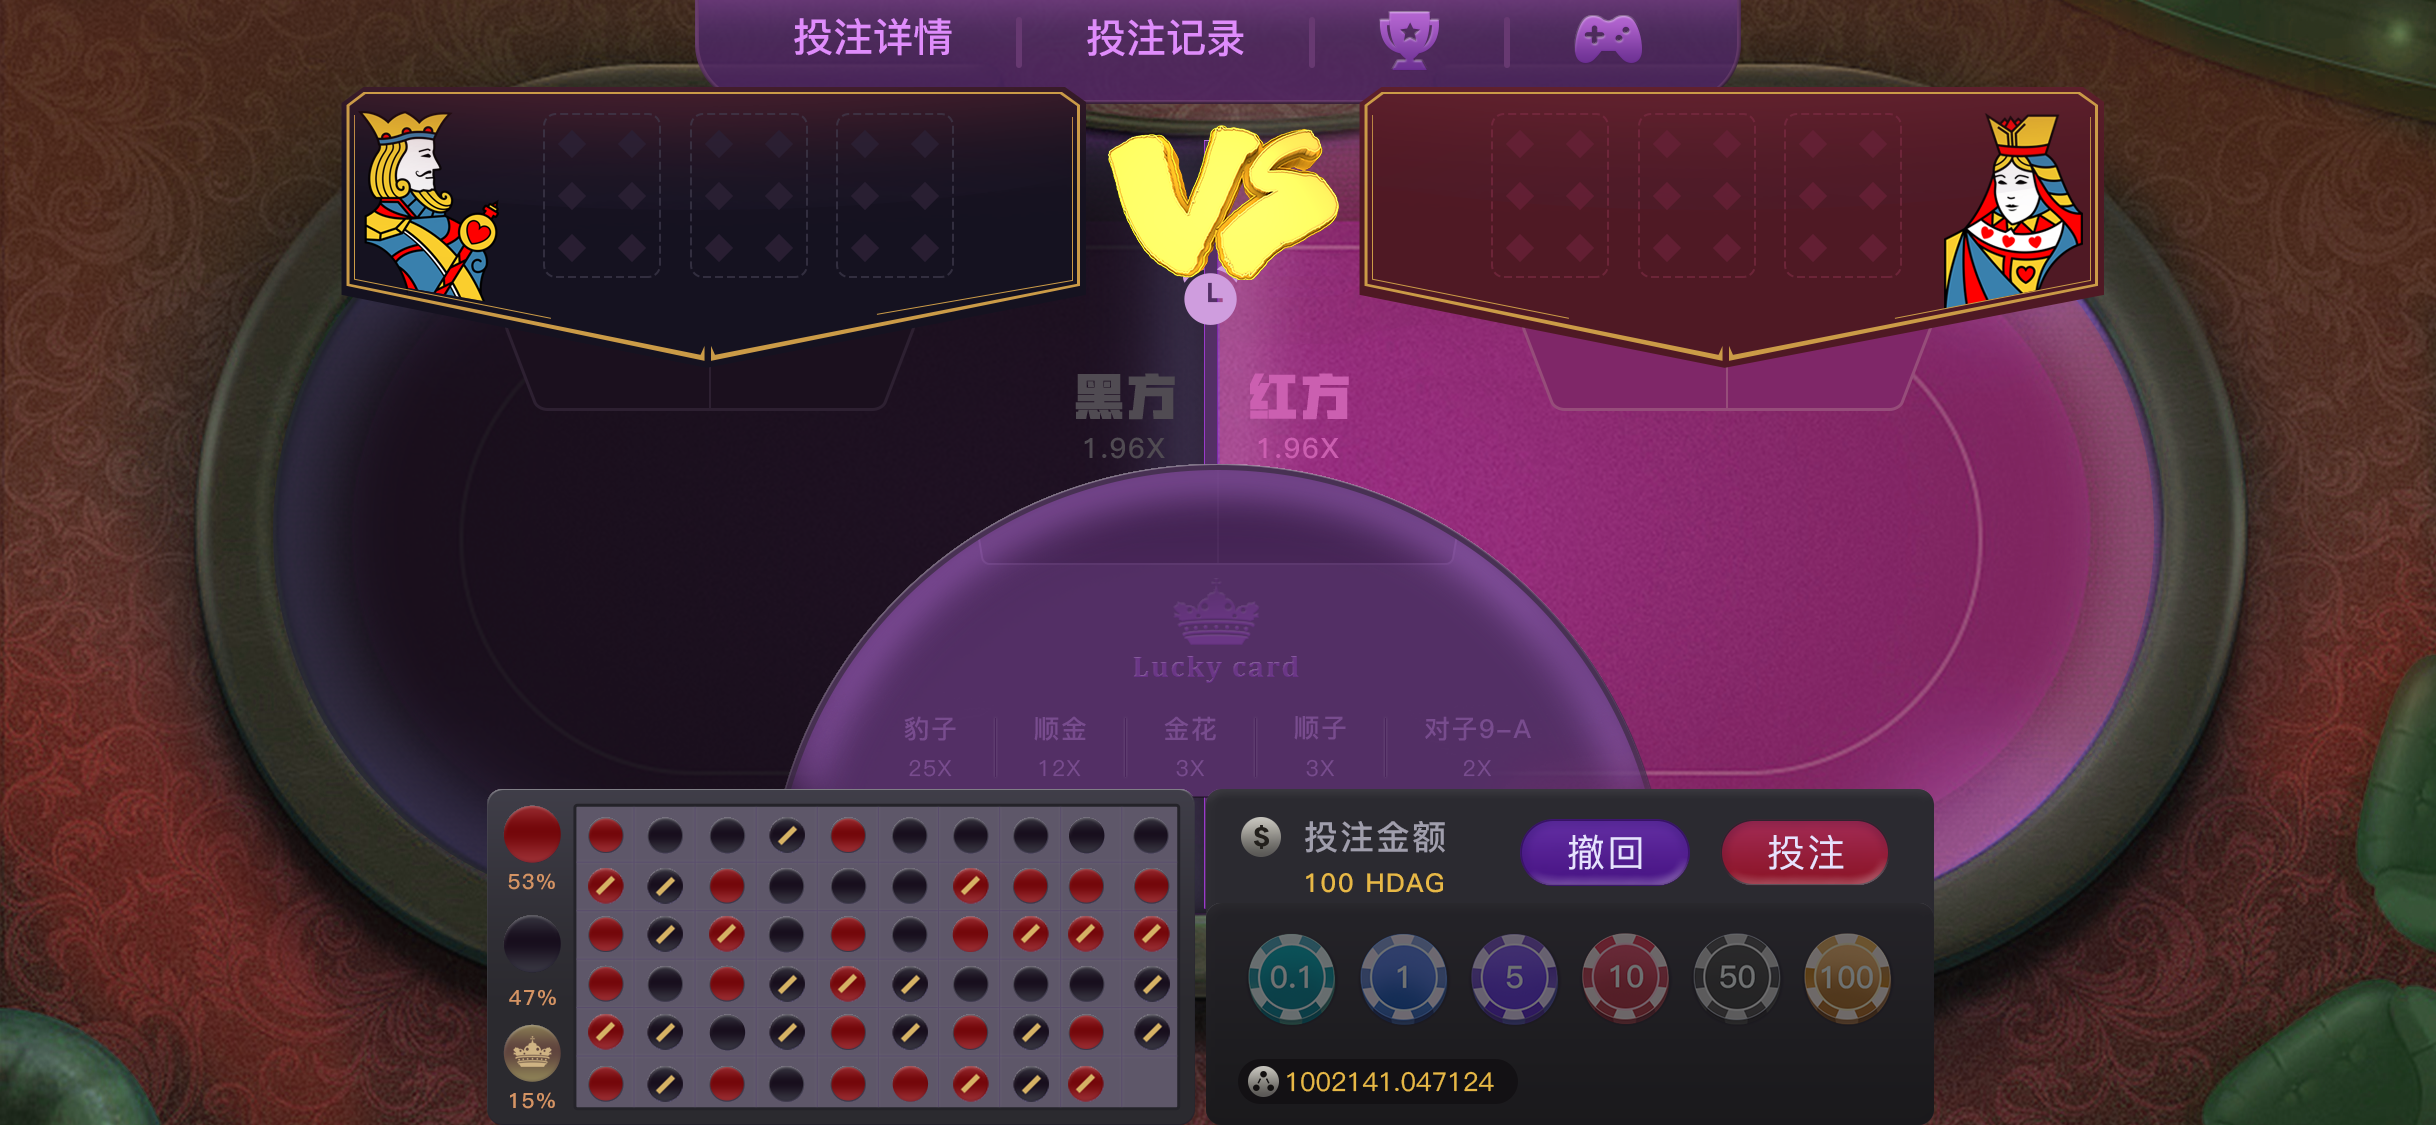
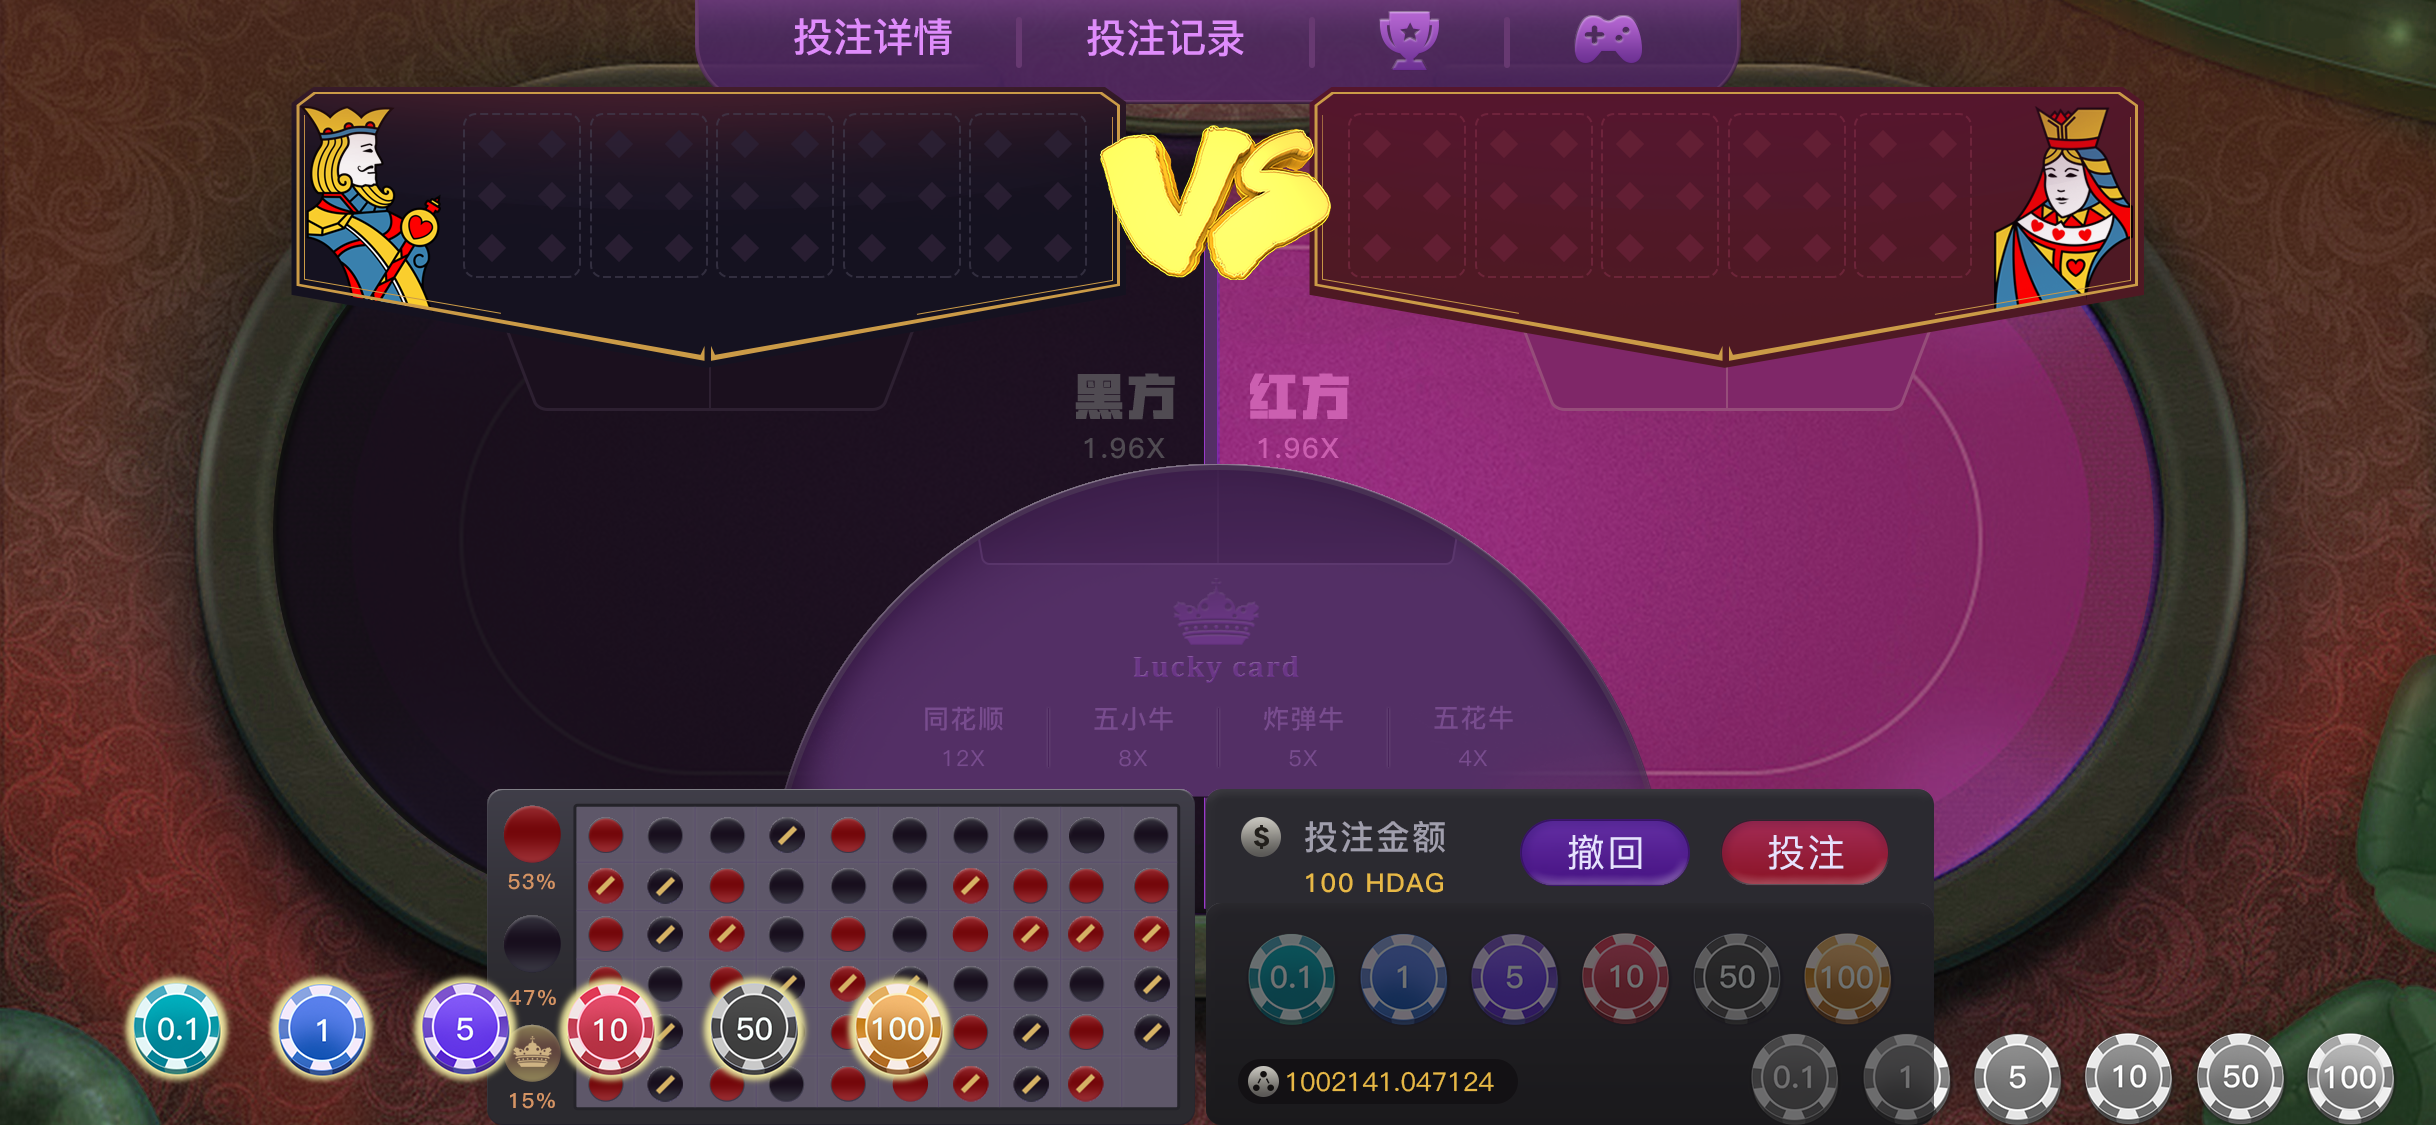
更改发牌动画

diff --git a/EgerPro/bin-debug/core/view/mainYDD/MainUIYDD.js b/EgerPro/bin-debug/core/view/mainYDD/MainUIYDD.js
@@ -18,14 +18,13 @@ var game;
         function MainUIYDD() {
             var _this = _super.call(this) || this;
             _this.skinName = "resource/ui/mainYDD/MainUIYDDSkin.exml";
-            _this._cards = [_this.card1, _this.card2, _this.card3, _this.card4, _this.card5, _this.card6];
-            _this._cardStarXs = [];
-            _this._cardStarXs[0] = _this.card1.x;
-            _this._cardStarXs[1] = _this.card2.x;
-            _this._cardStarXs[2] = _this.card3.x;
-            _this._cardStarXs[3] = _this.card4.x;
-            _this._cardStarXs[4] = _this.card5.x;
-            _this._cardStarXs[5] = _this.card6.x;
+            _this._cards = []; //[this.card1, this.card2, this.card3, this.card4, this.card5, this.card6, this.card7, this.card8, this.card9, this.card10];
+            _this._cardStarXs = []; //[this.card1.x, this.card2.x,this.card3.x,this.card4.x,this.card5.x,this.card6.x,this.card7.x,this.card8.x,this.card9.x,this.card10.x,];
+            for (var i = 0; i < 10; i++) {
+                var key = "card" + (i + 1);
+                _this._cards[i] = _this[key];
+                _this._cardStarXs[i] = _this[key].x;
+            }
             _this._vsManBlackX = _this.vsManBlack_img.x;
             _this._vsManRedX = _this.vsManRed_img.x;
             _this._selectIndex = -1;
@@ -178,7 +177,7 @@ var game;
          * 设置卡牌数据
          */
         MainUIYDD.prototype.setCardData = function () {
-            for (var i = 0; i < 6; i++) {
+            for (var i = 0; i < 10; i++) {
                 this._cards[i].setCard(i);
             }
             this.blackResult_img.source = EnumerationType.CardType[AllData.instance.CardTypeB] + "_png";
@@ -192,7 +191,12 @@ var game;
             if (this._cac == null) {
                 this._cac = new ContinueAmiChain(50);
                 var len = this._cards.length;
-                var cardCenterXs = [521, 557, 596, 218, 254, 290];
+                var cardCenterXs = [];
+                for (var i = 0; i < 5; i++) {
+                    var dz = i * 37;
+                    cardCenterXs[i + 5] = 176 + dz;
+                    cardCenterXs[i] = 485 + dz;
+                }
                 var cardCenterY = 59;
                 var cardCenterS = 1.65;
                 //设置发牌起始位置
@@ -206,9 +210,9 @@ var game;
                     var needTime = 8;
                     this._cac.registerAction(this.playMoveAmi, this, starTime, needTime, value);
                 }
-                //翻前两张牌
-                this._cac.registerAction(this.playOpenCardAmi, this, 10, 16);
-                //增加哈希列表动画
+                //翻前四张牌
+                this._cac.registerAction(this.playOpenCardAmi, this, 10, 18);
+                //动画：增加哈希列表
                 this.playHXItemAmi();
                 //飘字动画
                 this._cac.registerAction(this.playMoveLabAmi, this, 0, 20);
@@ -223,12 +227,12 @@ var game;
                     var starTime = i == 0 ? 0 : -needTime;
                     this._cac.registerAction(this.playMoveAmi, this, starTime, needTime, value);
                 }
-                //翻黑牌第三张
-                this._cac.registerAction(this._cards[2].showOpenCardAmi, this._cards[2], 0, 18, true);
+                //翻黑牌第五张
+                this._cac.registerAction(this._cards[4].showOpenCardAmi, this._cards[4], 0, 18, true);
                 //显示黑牌牌型
                 this._cac.registerAction(this.playCardResultAmiL, this, 0, 4);
-                //翻红牌第三张牌
-                this._cac.registerAction(this._cards[5].showOpenCardAmi, this._cards[5], 0, 18, true);
+                //翻红牌第五张牌
+                this._cac.registerAction(this._cards[9].showOpenCardAmi, this._cards[9], 0, 18, true);
                 //显示红牌牌型
                 this._cac.registerAction(this.playCardResultAmiR, this, 0, 4);
                 //显示胜利区域
@@ -312,17 +316,25 @@ var game;
         };
         MainUIYDD.prototype.playOpenCardAmi = function () {
             var cards = this._cards;
-            this.playOpenTwoCardAmi(cards[0], cards[1], cards[2]);
-            this.playOpenTwoCardAmi(cards[3], cards[4], cards[5]);
+            this.playOpenTwoCardAmi(cards[0], cards[1], cards[2], cards[3], cards[4]);
+            this.playOpenTwoCardAmi(cards[5], cards[6], cards[7], cards[8], cards[9]);
         };
-        MainUIYDD.prototype.playOpenTwoCardAmi = function (card1, card2, card3) {
+        MainUIYDD.prototype.playOpenTwoCardAmi = function (card1, card2, card3, card4, card5) {
             var starX1 = card1.x;
+            var starX2 = card2.x;
             var starX3 = card3.x;
-            egret.Tween.get(card1).to({ x: card2.x }, 400)
-                .call(function () { card1.openSelf(); card2.openSelf(); })
-                .to({ x: starX1 }, 400);
-            egret.Tween.get(card3).to({ x: card2.x }, 400)
-                .to({ x: starX3 }, 400);
+            var starX4 = card4.x;
+            var starX5 = card5.x;
+            var sX = card1.scaleX;
+            egret.Tween.get(card1).to({ x: card3.x }, 450)
+                .call(function () { card1.openSelf(); card3.openSelf(); card2.openSelf(); card4.openSelf(); })
+                .to({ x: starX1 }, 450);
+            egret.Tween.get(card2).to({ x: card3.x }, 450)
+                .to({ x: starX2 }, 450);
+            egret.Tween.get(card4).to({ x: card3.x }, 450)
+                .to({ x: starX4 }, 450);
+            egret.Tween.get(card5).to({ x: card3.x }, 450)
+                .to({ x: starX5 }, 450);
         };
         /**
          * 播放移动动画

diff --git a/EgerPro/src/core/view/mainYDD/MainUIYDD.ts b/EgerPro/src/core/view/mainYDD/MainUIYDD.ts
@@ -12,6 +12,10 @@ module game
 		public card4: Card;
 		public card5: Card;
 		public card6: Card;
+		public card7: Card;
+		public card8: Card;
+		public card9: Card;
+		public card10: Card;
 		public ball5_btn: BallBtn;
 		public ball4_btn: BallBtn;
 		public ball3_btn: BallBtn;
@@ -68,14 +72,14 @@ module game
 		{
 			super();
 			this.skinName = "resource/ui/mainYDD/MainUIYDDSkin.exml";
-			this._cards = [this.card1, this.card2, this.card3, this.card4, this.card5, this.card6];
-			this._cardStarXs = [];
-			this._cardStarXs[0] = this.card1.x;
-			this._cardStarXs[1] = this.card2.x;
-			this._cardStarXs[2] = this.card3.x;
-			this._cardStarXs[3] = this.card4.x;
-			this._cardStarXs[4] = this.card5.x;
-			this._cardStarXs[5] = this.card6.x;
+			this._cards = [];//[this.card1, this.card2, this.card3, this.card4, this.card5, this.card6, this.card7, this.card8, this.card9, this.card10];
+			this._cardStarXs = [];//[this.card1.x, this.card2.x,this.card3.x,this.card4.x,this.card5.x,this.card6.x,this.card7.x,this.card8.x,this.card9.x,this.card10.x,];
+			for (let i = 0; i < 10; i++)
+			{
+				let key = "card" + (i + 1);
+				this._cards[i] = this[key];
+				this._cardStarXs[i] = this[key].x;
+			}
 			this._vsManBlackX = this.vsManBlack_img.x;
 			this._vsManRedX = this.vsManRed_img.x;
 			this._selectIndex = -1;
@@ -266,7 +270,7 @@ module game
 		 */
 		public setCardData(): void
 		{
-			for (let i = 0; i < 6; i++)
+			for (let i = 0; i < 10; i++)
 			{
 				this._cards[i].setCard(i);
 			}
@@ -284,7 +288,13 @@ module game
 			{
 				this._cac = new ContinueAmiChain(50);
 				let len = this._cards.length;
-				let cardCenterXs = [521, 557, 596, 218, 254, 290];
+				let cardCenterXs = [];
+				for (let i = 0; i < 5; i++)
+				{
+					let dz = i * 37
+					cardCenterXs[i + 5] = 176 + dz;
+					cardCenterXs[i] = 485 + dz;
+				}
 				let cardCenterY = 59;
 				let cardCenterS = 1.65;
 				//设置发牌起始位置
@@ -300,9 +310,9 @@ module game
 					let needTime = 8;
 					this._cac.registerAction(this.playMoveAmi, this, starTime, needTime, value);
 				}
-				//翻前两张牌
-				this._cac.registerAction(this.playOpenCardAmi, this, 10, 16);
-				//增加哈希列表动画
+				//翻前四张牌
+				this._cac.registerAction(this.playOpenCardAmi, this, 10, 18);
+				//动画：增加哈希列表
 				this.playHXItemAmi();
 				//飘字动画
 				this._cac.registerAction(this.playMoveLabAmi, this, 0, 20);
@@ -318,12 +328,12 @@ module game
 					let starTime = i == 0 ? 0 : -needTime;
 					this._cac.registerAction(this.playMoveAmi, this, starTime, needTime, value);
 				}
-				//翻黑牌第三张
-				this._cac.registerAction(this._cards[2].showOpenCardAmi, this._cards[2], 0, 18, true);
+				//翻黑牌第五张
+				this._cac.registerAction(this._cards[4].showOpenCardAmi, this._cards[4], 0, 18, true);
 				//显示黑牌牌型
 				this._cac.registerAction(this.playCardResultAmiL, this, 0, 4);
-				//翻红牌第三张牌
-				this._cac.registerAction(this._cards[5].showOpenCardAmi, this._cards[5], 0, 18, true);
+				//翻红牌第五张牌
+				this._cac.registerAction(this._cards[9].showOpenCardAmi, this._cards[9], 0, 18, true);
 				//显示红牌牌型
 				this._cac.registerAction(this.playCardResultAmiR, this, 0, 4);
 				//显示胜利区域
@@ -434,21 +444,29 @@ module game
 		private playOpenCardAmi(): void
 		{
 			let cards = this._cards;
-			this.playOpenTwoCardAmi(cards[0], cards[1], cards[2]);
-			this.playOpenTwoCardAmi(cards[3], cards[4], cards[5]);
+			this.playOpenTwoCardAmi(cards[0], cards[1], cards[2],cards[3],cards[4]);
+			this.playOpenTwoCardAmi(cards[5], cards[6], cards[7],cards[8],cards[9]);
 		}
 
-		private playOpenTwoCardAmi(card1: Card, card2: Card, card3: Card, ): void
+		private playOpenTwoCardAmi(card1: Card, card2: Card, card3: Card, card4: Card, card5: Card): void
 		{
 			let starX1 = card1.x;
+			let starX2 = card2.x;
 			let starX3 = card3.x;
+			let starX4 = card4.x;
+			let starX5 = card5.x;
+			let sX = card1.scaleX;
 
-			egret.Tween.get(card1).to({ x: card2.x }, 400)
-				.call(function () { card1.openSelf(); card2.openSelf() })
-				.to({ x: starX1 }, 400);
+			egret.Tween.get(card1).to({ x: card3.x }, 450)
+				.call(function () { card1.openSelf(); card3.openSelf(); card2.openSelf(); card4.openSelf();})
+				.to({ x: starX1 }, 450);
 
-			egret.Tween.get(card3).to({ x: card2.x }, 400)
-				.to({ x: starX3 }, 400);
+			egret.Tween.get(card2).to({ x: card3.x }, 450)
+				.to({ x: starX2 }, 450);
+			egret.Tween.get(card4).to({ x: card3.x }, 450)
+				.to({ x: starX4 }, 450);
+			egret.Tween.get(card5).to({ x: card3.x }, 450)
+				.to({ x: starX5 }, 450);
 		}
 
 		/**

diff --git a/EgerPro/index.html b/EgerPro/index.html
@@ -89,7 +89,7 @@
 	<script egret="lib" src="bin-debug/core/view/mainYDD/component/Clock.js"></script>
 	<script egret="lib" src="bin-debug/core/view/mainYDD/component/HxItem.js"></script>
 	<script egret="lib" src="bin-debug/core/view/mainYDD/component/RegionBlack.js"></script>
-	<script egret="lib" src="bin-debug/utils/UtilsClass/TipsUtils.js"></script>
+	<script egret="lib" src="bin-debug/LoadingUI.js"></script>
 	<script egret="lib" src="bin-debug/NewFile.js"></script>
 	<script egret="lib" src="bin-debug/core/view/mainYDD/component/Scoreboard.js"></script>
 	<script egret="lib" src="bin-debug/core/view/mainYDD/component/SelectCarding.js"></script>
@@ -137,7 +137,7 @@
 	<script egret="lib" src="bin-debug/utils/api/ErgodicUtils.js"></script>
 	<script egret="lib" src="bin-debug/utils/api/ObjectPool.js"></script>
 	<script egret="lib" src="bin-debug/utils/UtilsClass/BitmapBlink.js"></script>
-	<script egret="lib" src="bin-debug/LoadingUI.js"></script>
+	<script egret="lib" src="bin-debug/utils/UtilsClass/TipsUtils.js"></script>
 	<!--game_files_end-->
 </head>
 <body>

diff --git a/EgerPro/template/runtime/native_require.js b/EgerPro/template/runtime/native_require.js
@@ -62,7 +62,7 @@ var game_file_list = [
 	"bin-debug/core/view/mainYDD/component/Clock.js",
 	"bin-debug/core/view/mainYDD/component/HxItem.js",
 	"bin-debug/core/view/mainYDD/component/RegionBlack.js",
-	"bin-debug/utils/UtilsClass/TipsUtils.js",
+	"bin-debug/LoadingUI.js",
 	"bin-debug/NewFile.js",
 	"bin-debug/core/view/mainYDD/component/Scoreboard.js",
 	"bin-debug/core/view/mainYDD/component/SelectCarding.js",
@@ -110,7 +110,7 @@ var game_file_list = [
 	"bin-debug/utils/api/ErgodicUtils.js",
 	"bin-debug/utils/api/ObjectPool.js",
 	"bin-debug/utils/UtilsClass/BitmapBlink.js",
-	"bin-debug/LoadingUI.js",
+	"bin-debug/utils/UtilsClass/TipsUtils.js",
 	//----auto game_file_list end----
 ];
 
